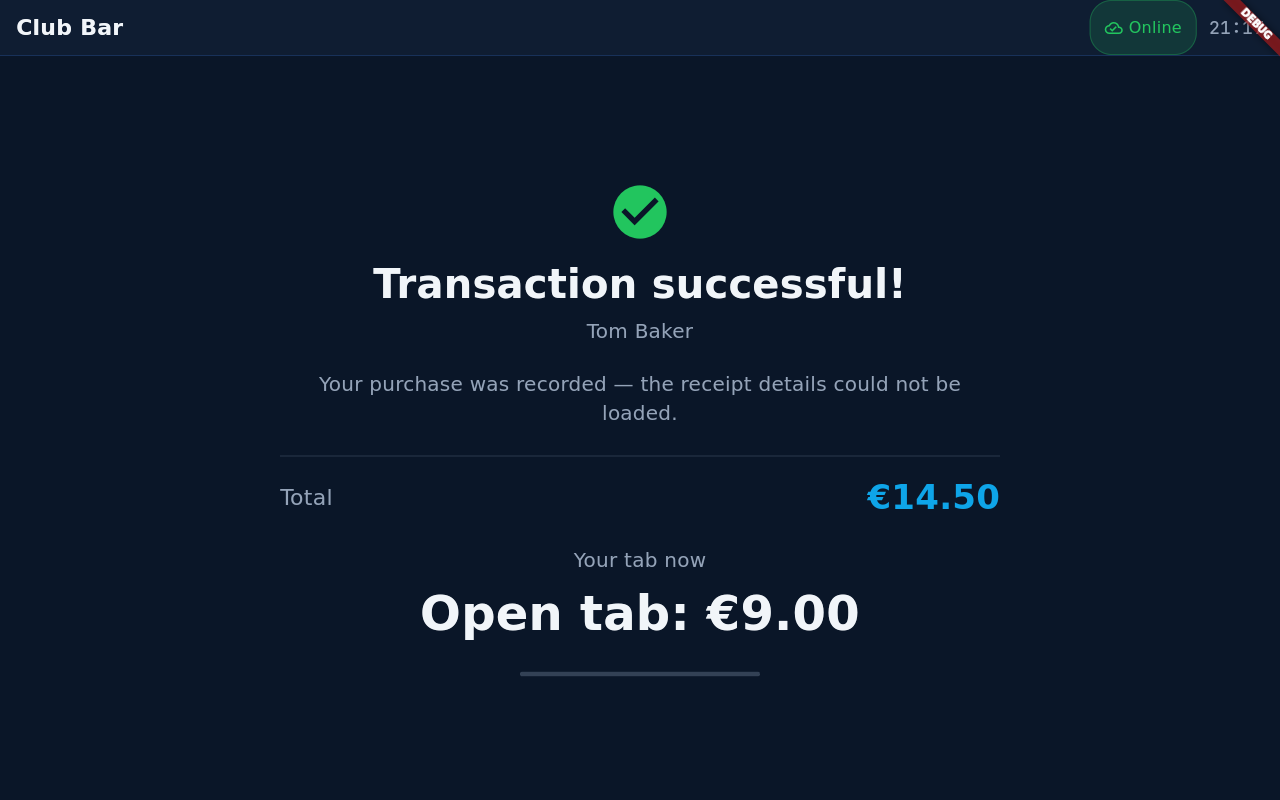
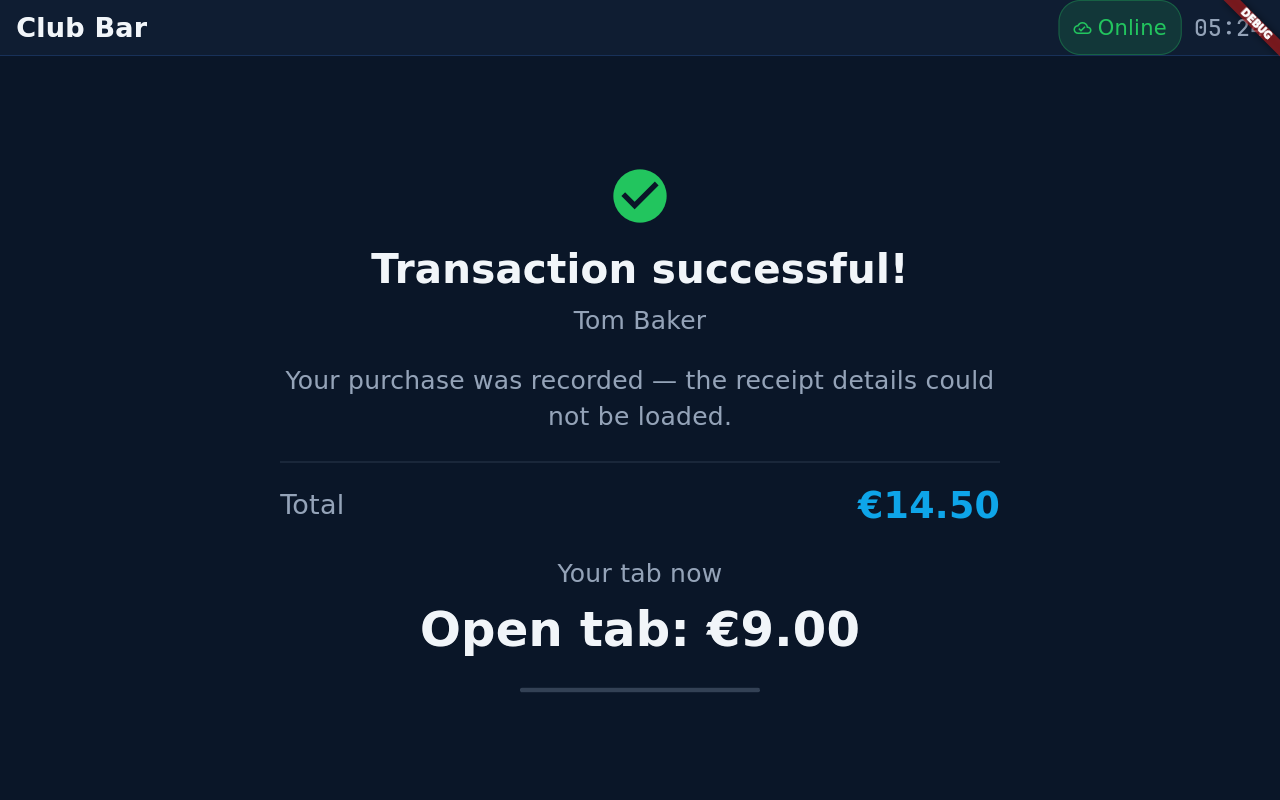
Receipt: hero sizes track the configured scale; long rounds tighten
A production terminal runs `fontSizes` well above the compiled-in defaults
(xxxl 31, not 26), and at that scale the fixed hero sizes lost their
hierarchy: the 34 px total barely cleared the 27 px lines. The title,
total and balance are now multiples of the scale (xxxl×1.3, xxl×1.35,
xxxl×1.55 — 40, 36 and 48 on the production scale), so raising the tokens
keeps the receipt's shape.

Above four lines the receipt tightens — smaller icons, less air around the
header, rows and footer, the type unchanged — so a table's round still fits
a 1280×800 terminal at the production scale without scrolling.

The screenshot test now applies the production `fontSizes` before
capturing, and adds a six-line round; all captures re-taken at that scale.

Claude-Session: https://claude.ai/code/session_01Ar6LYjVV3nASHNuPkiKq9a

diff --git a/terminal-frontend/lib/screens/checkout_confirmation_screen.dart b/terminal-frontend/lib/screens/checkout_confirmation_screen.dart
@@ -70,12 +70,20 @@ class CheckoutConfirmationScreen extends StatefulWidget {
 
 /// Hero sizes for the receipt, read standing up from across a bar counter.
 ///
-/// Fixed rather than token-driven, like the idle headline and the cart's grand
-/// total (docs/font-sizes.md): they are the receipt's visual identity, and the
-/// three of them are sized against each other, not against the type scale.
-const double _receiptTitleSize = 40.0;
-const double _receiptTotalSize = 34.0;
-const double _receiptBalanceSize = 48.0;
+/// Multiples of the configured scale rather than fixed numbers, so a terminal
+/// that raises `fontSizes` in its config.json (a production terminal runs
+/// `xxxl` at 31, not the compiled-in 26) keeps the same hierarchy: the title a
+/// step above the lines, the total a clear step above them, the balance — the
+/// number the member walks away with — above everything. On the production
+/// scale these come to 40, 36 and 48 (docs/font-sizes.md).
+double get _receiptTitleSize => AppFontSizes.xxxl * 1.3;
+double get _receiptTotalSize => AppFontSizes.xxl * 1.35;
+double get _receiptBalanceSize => AppFontSizes.xxxl * 1.55;
+
+/// Above this many lines the rows tighten up, so a table's round still fits a
+/// 1280×800 terminal at the production scale without scrolling — a receipt a
+/// member has to scroll is one they do not read.
+const int _compactAbove = 4;
 
 class _CheckoutConfirmationScreenState extends State<CheckoutConfirmationScreen>
     with SingleTickerProviderStateMixin {
@@ -219,6 +227,7 @@ class _CheckoutConfirmationScreenState extends State<CheckoutConfirmationScreen>
             ? AppConfig.receiptAttentionDwell
             : AppConfig.receiptAutoReturnDelay);
 
+        final compact = receipt.lines.length > _compactAbove;
         return _receiptFrame(
           children: [
             ..._receiptHeader(
@@ -231,19 +240,20 @@ class _CheckoutConfirmationScreenState extends State<CheckoutConfirmationScreen>
               title: receipt.isPartial
                   ? l10n.checkoutPartialSuccess(receipt.dispensedCount ?? 0)
                   : l10n.checkoutSuccess,
+              compact: compact,
             ),
 
             // What was booked — the lines the member put in the cart, so the
             // receipt reads like the cart they just confirmed.
-            for (final line in receipt.lines) _lineRow(line),
+            for (final line in receipt.lines) _lineRow(line, compact: compact),
             _totalRow(
               l10n,
               billedCents: receipt.billedCents,
               originalTotalCents: receipt.originalTotalCents,
             ),
-            const SizedBox(height: AppSpacing.xxl),
+            SizedBox(height: compact ? AppSpacing.lg : AppSpacing.xxl),
 
-            ..._balanceBlock(l10n),
+            ..._balanceBlock(l10n, compact: compact),
           ],
         );
       },
@@ -295,17 +305,21 @@ class _CheckoutConfirmationScreenState extends State<CheckoutConfirmationScreen>
   }
 
   /// Icon, headline and member name — the top of every receipt variant.
+  ///
+  /// [compact] gives a long receipt's lines the room: a smaller icon and less
+  /// air under the name, the type itself unchanged.
   List<Widget> _receiptHeader({
     required IconData icon,
     required Color iconColor,
     required String title,
+    bool compact = false,
   }) {
     return [
-      Icon(icon, size: 64, color: iconColor),
+      Icon(icon, size: compact ? 48 : 64, color: iconColor),
       const SizedBox(height: AppSpacing.md),
       Text(
         title,
-        style: const TextStyle(
+        style: TextStyle(
           color: AppColors.textPrimary,
           fontSize: _receiptTitleSize,
           fontWeight: FontWeight.w700,
@@ -321,17 +335,22 @@ class _CheckoutConfirmationScreenState extends State<CheckoutConfirmationScreen>
         ),
         textAlign: TextAlign.center,
       ),
-      const SizedBox(height: AppSpacing.xxl),
+      SizedBox(height: compact ? AppSpacing.md : AppSpacing.xxl),
     ];
   }
 
   /// One booked line: icon, "2 ×", name, what it came to.
-  Widget _lineRow(ReceiptLine line) {
+  ///
+  /// [compact] is the long-receipt row: less air and a smaller icon, the type
+  /// unchanged — a line is still read from across the counter.
+  Widget _lineRow(ReceiptLine line, {required bool compact}) {
     return Padding(
-      padding: const EdgeInsets.symmetric(vertical: AppSpacing.md),
+      padding: EdgeInsets.symmetric(
+        vertical: compact ? AppSpacing.xs : AppSpacing.md,
+      ),
       child: Row(
         children: [
-          getProductIcon(line.iconName, size: 44),
+          getProductIcon(line.iconName, size: compact ? 32 : 44),
           const SizedBox(width: AppSpacing.lg),
           SizedBox(
             width: 52,
@@ -411,11 +430,11 @@ class _CheckoutConfirmationScreenState extends State<CheckoutConfirmationScreen>
           Text(
             formatPrice(billedCents, _locale),
             key: const Key('receipt-total'),
-            style: const TextStyle(
+            style: TextStyle(
               color: AppColors.semanticInfo,
               fontSize: _receiptTotalSize,
               fontWeight: FontWeight.w700,
-              fontFeatures: [FontFeature.tabularFigures()],
+              fontFeatures: const [FontFeature.tabularFigures()],
             ),
           ),
         ],
@@ -429,7 +448,7 @@ class _CheckoutConfirmationScreenState extends State<CheckoutConfirmationScreen>
   /// No session reference here (#25): a raw UUID means nothing to the member
   /// it is shown to, and the transaction is looked up from the local database
   /// or the backend when staff actually need it.
-  List<Widget> _balanceBlock(AppLocalizations l10n) {
+  List<Widget> _balanceBlock(AppLocalizations l10n, {bool compact = false}) {
     return [
       Text(
         l10n.receiptBalanceLabel,
@@ -450,7 +469,7 @@ class _CheckoutConfirmationScreenState extends State<CheckoutConfirmationScreen>
         ),
         textAlign: TextAlign.center,
       ),
-      const SizedBox(height: AppSpacing.xxl),
+      SizedBox(height: compact ? AppSpacing.md : AppSpacing.xxl),
       _DwellBar(
         fraction: _dwell.inSeconds == 0 ? 0 : _secondsRemaining / _dwell.inSeconds,
       ),

diff --git a/terminal-frontend/integration_test/receipt_screenshot_test.dart b/terminal-frontend/integration_test/receipt_screenshot_test.dart
@@ -40,6 +40,7 @@ import 'package:clubbar_terminal/repository/transactions_repository.dart';
 import 'package:clubbar_terminal/screens/checkout_confirmation_screen.dart';
 import 'package:clubbar_terminal/screens/idle_waiting_screen.dart';
 import 'package:clubbar_terminal/screens/product_selection_screen.dart';
+import 'package:clubbar_terminal/utils/design_tokens.dart';
 import 'package:clubbar_terminal/widgets/main_layout.dart';
 import 'package:drift/drift.dart' show Value;
 import 'package:drift/native.dart';
@@ -83,6 +84,30 @@ class FailingLookupRepository extends TransactionsRepository {
 }
 
 const _seededAt = '2025-02-01T10:00:00Z';
+
+/// The `fontSizes` block from a production terminal's config.json.
+const _productionFontSizes = <String, dynamic>{
+  'xs': 20,
+  'sm': 23,
+  'base': 21,
+  'lg': 23,
+  'xl': 25,
+  'xxl': 27,
+  'xxxl': 31,
+};
+
+/// The compiled-in defaults (design_tokens.dart), restored after the run so
+/// nothing else in the same process inherits the override.
+const _defaultFontSizes = <String, dynamic>{
+  'xs': 13,
+  'sm': 14,
+  'base': 16,
+  'lg': 18,
+  'xl': 20,
+  'xxl': 22,
+  'xxxl': 26,
+  'display': 55,
+};
 
 /// A bar with a Friday-evening spread: drinks, a snack, sauna tokens. Two
 /// members — one German-speaking with a tab already open, one
@@ -202,6 +227,12 @@ void main() {
         tester.view.resetDevicePixelRatio();
       });
 
+      // The type scale a production terminal actually runs — `fontSizes` in
+      // its config.json — not the compiled-in defaults, which are a phone's.
+      // The receipt has to be judged at the size it is read at.
+      AppFontSizes.applyConfig(_productionFontSizes);
+      addTearDown(() => AppFontSizes.applyConfig(_defaultFontSizes));
+
       final db = await seedDatabase();
       addTearDown(() => db.close());
       final repo = FailingLookupRepository(db);
@@ -294,7 +325,23 @@ void main() {
       expect(find.byType(CheckoutConfirmationScreen), findsOneWidget);
       await capture('partial');
 
-      // -- 4: the receipt whose details could not be read back (#16) --
+      // -- 4: a table's round — six lines, the rows tighten so it still fits --
+      await scan('receipt-card-jana');
+      cart.addItem('prod-pils', 'Pils 0,5l', 350, 3, 'de', iconName: 'beer-pils');
+      cart.addItem('prod-weizen', 'Weizen 0,5l', 380, 2, 'de',
+          iconName: 'beer-weizen');
+      cart.addItem('prod-water', 'Wasser 0,33l', 150, 1, 'de',
+          iconName: 'water-small');
+      cart.addItem('prod-pretzel', 'Brezel', 250, 4, 'de',
+          iconName: 'food-bretzel');
+      cart.addItem('prod-sauna', 'Sauna-Session', 500, 2, 'de',
+          iconName: 'sauna-session');
+      cart.addItem('prod-token', 'Sauna-Token', 200, 1, 'de',
+          iconName: 'sauna-token');
+      await checkout();
+      await capture('long');
+
+      // -- 5: the receipt whose details could not be read back (#16) --
       await scan('receipt-card-tom');
       fillCart('en');
       repo.failSessionLookups = true;

diff --git a/terminal-frontend/docs/font-sizes.md b/terminal-frontend/docs/font-sizes.md
@@ -27,9 +27,18 @@ are not intended to be operator-configurable.
 | `IdleWaitingScreen` | Main title ("Karte scannen") | 42 | Hero display size |
 | `ShoppingCartScreen` | Grand total price | 48 | Hero display size |
 | `ShoppingCartScreen` | Quantity stepper ＋ / − touch targets | 24 | Touch-target size, same as xxxl |
-| `CheckoutConfirmationScreen` | Receipt title ("Buchung erfolgreich!") | 40 | Hero display size — read standing up, from across the counter |
-| `CheckoutConfirmationScreen` | Receipt total | 34 | Hero display size, sized against the balance below it |
-| `CheckoutConfirmationScreen` | Resulting balance ("Offener Betrag: 26,80 €") | 48 | Hero display size, the same as the cart's grand total — the number the member walks away with |
+
+## Derived sizes (multiples of a token)
+
+The checkout receipt's three hero sizes are multiples of the configured scale
+rather than fixed numbers, so a terminal that raises `fontSizes` keeps the
+receipt's hierarchy instead of having the lines catch up with the title.
+
+| Screen / widget | Element | Size | On the production scale (`xxl` 27, `xxxl` 31) |
+|-----------------|---------|------|-------------------|
+| `CheckoutConfirmationScreen` | Receipt title ("Buchung erfolgreich!") | `xxxl` × 1.3 | 40 |
+| `CheckoutConfirmationScreen` | Receipt total | `xxl` × 1.35 | 36 |
+| `CheckoutConfirmationScreen` | Resulting balance ("Offener Betrag: 26,80 €") | `xxxl` × 1.55 | 48 — the number the member walks away with |
 
 ## StatusInfoModal (developer overlay)
 
